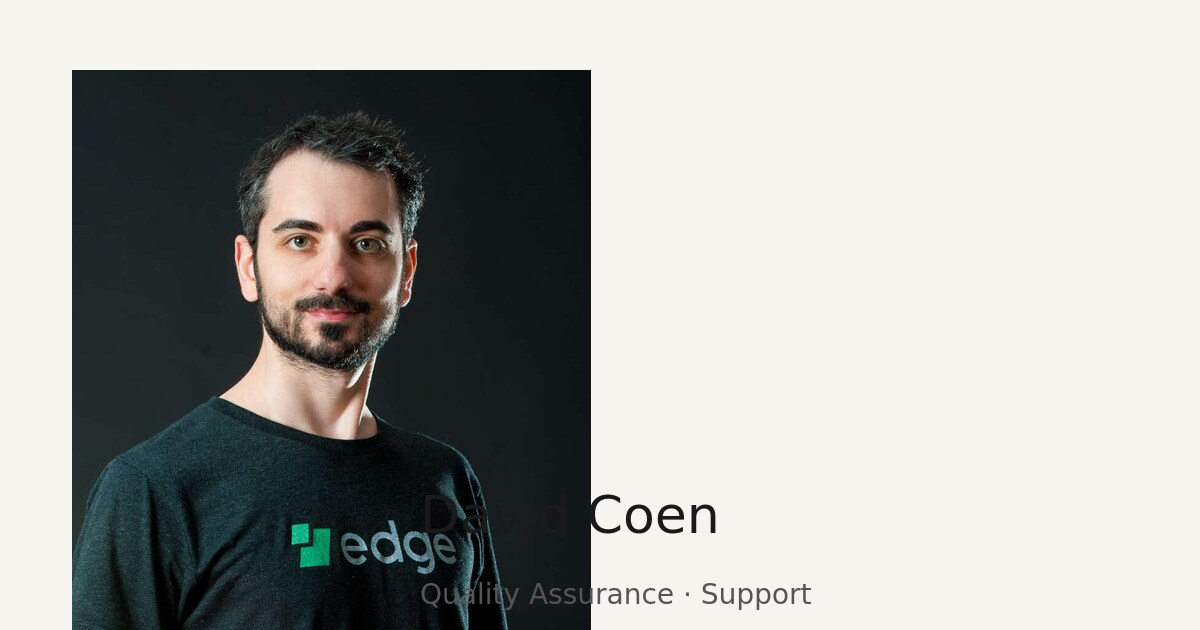
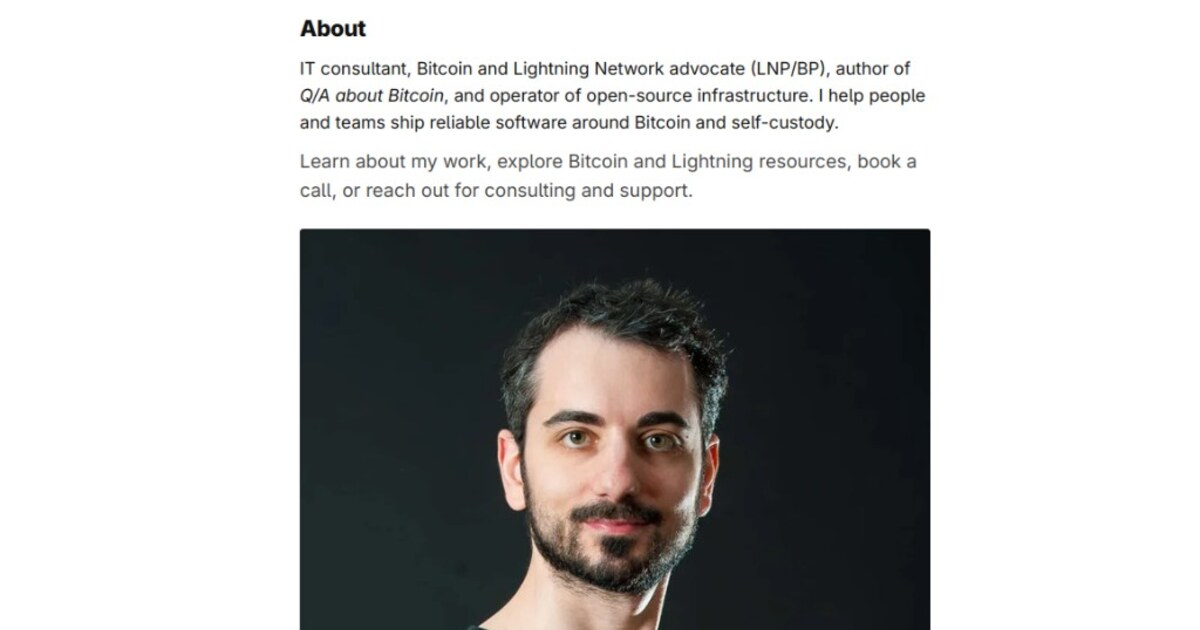
Use About section screenshot as social preview image.
Replace generated OG card with cropped site screenshot and cache-bust Twitter metadata.

diff --git a/index.html b/index.html
@@ -21,7 +21,7 @@
   <meta property="og:title" content="David Coen">
   <meta property="og:description" content="Quality Assurance · Support · Bitcoin · Lightning Network">
   <meta property="og:url" content="https://davidcoen.it/">
-  <meta property="og:image" content="https://davidcoen.it/assets/og-social.jpg">
+  <meta property="og:image" content="https://davidcoen.it/assets/og-social.jpg?v=2">
   <meta property="og:image:width" content="1200">
   <meta property="og:image:height" content="630">
   <meta property="og:image:alt" content="David Coen — Quality Assurance, Support, Bitcoin and Lightning Network">
@@ -31,7 +31,7 @@
   <meta name="twitter:creator" content="@thedavidcoen">
   <meta name="twitter:title" content="David Coen">
   <meta name="twitter:description" content="Quality Assurance · Support · Bitcoin · Lightning Network">
-  <meta name="twitter:image" content="https://davidcoen.it/assets/og-social.jpg">
+  <meta name="twitter:image" content="https://davidcoen.it/assets/og-social.jpg?v=2">
   <meta name="twitter:image:alt" content="David Coen — Quality Assurance, Support, Bitcoin and Lightning Network">
   <link rel="stylesheet" href="css/style.css">
   <link rel="preload" as="image" href="assets/david-coen.webp" type="image/webp">
